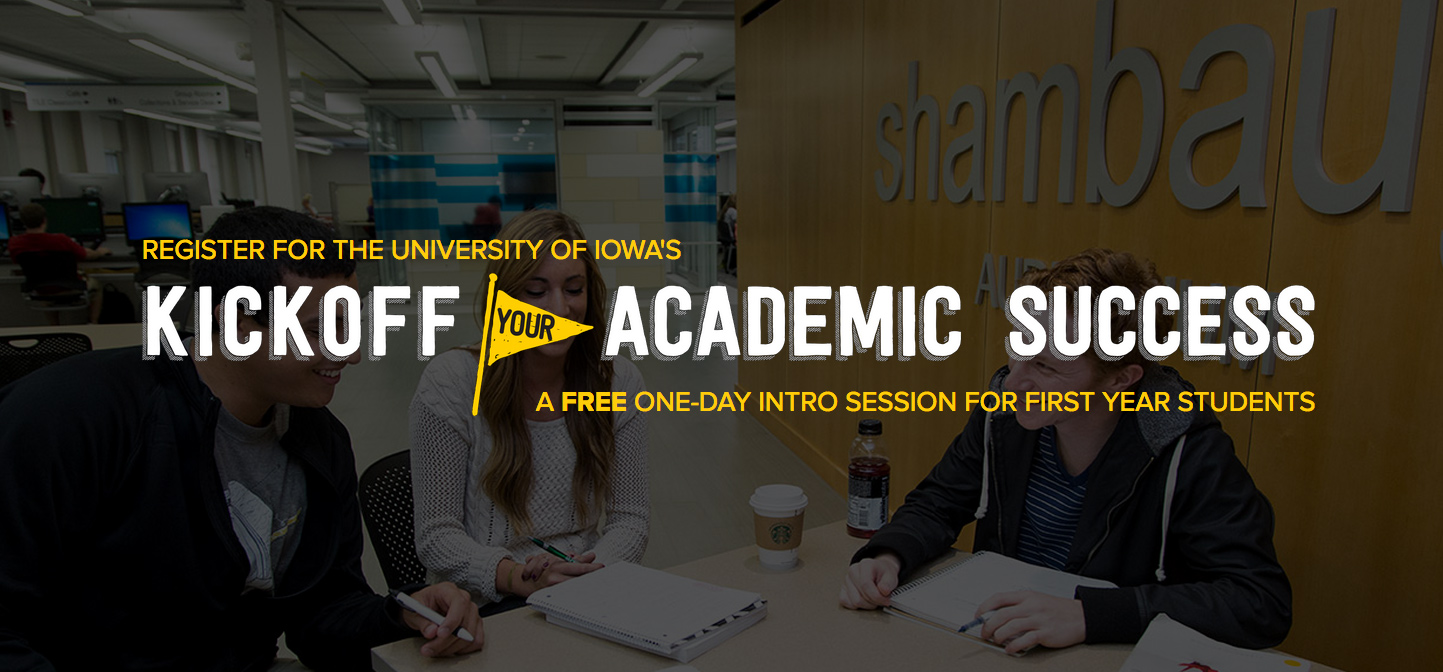
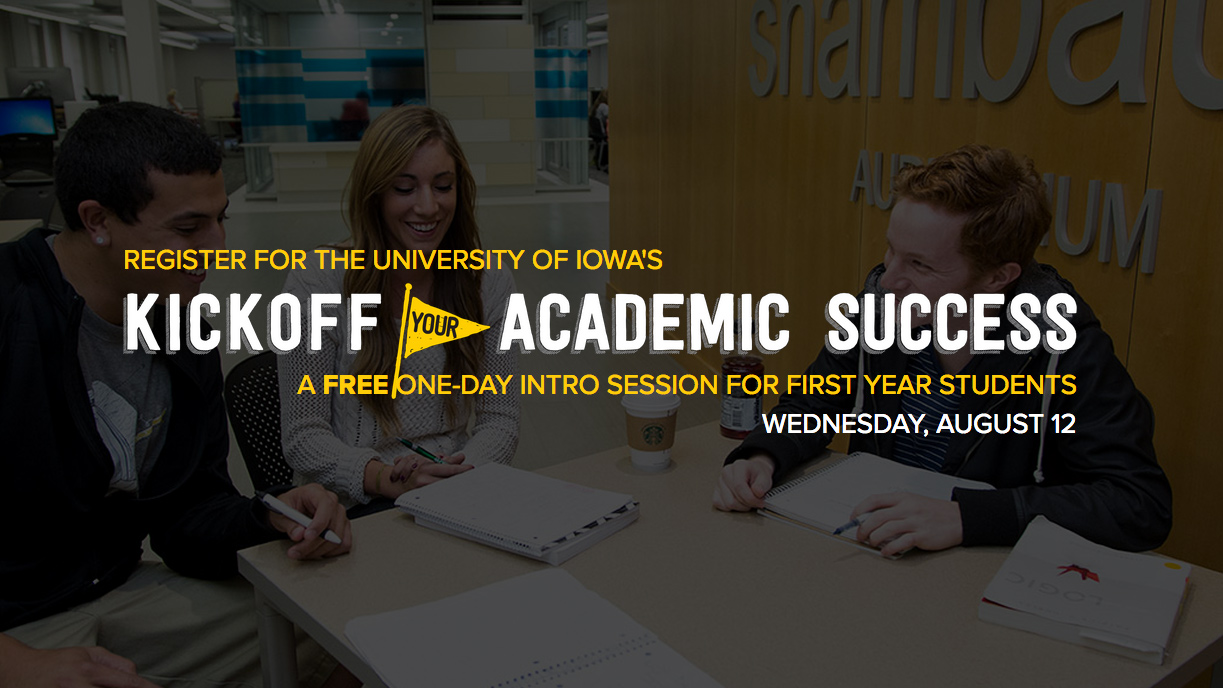
updated kickoff

diff --git a/kickoff/stylesheets/app.css b/kickoff/stylesheets/app.css
@@ -11302,7 +11302,7 @@ h1, h2 {
 /* line 47, ../scss/app.scss */
 .header {
   background: #000;
-  background: rgba(0, 0, 0, 0.85);
+  background: rgba(0, 0, 0, 0.7);
   padding: 10px 0;
   color: #FECC31;
   text-transform: uppercase;
@@ -11336,12 +11336,16 @@ h1, h2 {
     text-align: right;
   }
 }
-/* line 76, ../scss/app.scss */
+/* line 75, ../scss/app.scss */
+.header .subheader span {
+  color: white;
+}
+/* line 79, ../scss/app.scss */
 .header img {
   text-align: center;
 }
 
-/* line 81, ../scss/app.scss */
+/* line 84, ../scss/app.scss */
 .bg-container {
   background-image: url("../images/hero-image.jpg");
   background-position: 50% 50%;
@@ -11349,75 +11353,75 @@ h1, h2 {
   background-repeat: no-repeat;
 }
 @media only screen and (min-width: 40.0625em) {
-  /* line 81, ../scss/app.scss */
+  /* line 84, ../scss/app.scss */
   .bg-container {
     height: 700px;
     border-bottom: 7px dashed white;
   }
 }
 @media only screen and (min-width: 64.0625em) {
-  /* line 81, ../scss/app.scss */
+  /* line 84, ../scss/app.scss */
   .bg-container {
     height: 1000px;
     background-size: cover;
   }
 }
 
-/* line 98, ../scss/app.scss */
+/* line 101, ../scss/app.scss */
 .hero-content {
   color: white;
 }
-/* line 101, ../scss/app.scss */
+/* line 104, ../scss/app.scss */
 .hero-content ul li {
   font-size: 48px;
 }
 
-/* line 106, ../scss/app.scss */
+/* line 109, ../scss/app.scss */
 .button {
   text-transform: uppercase;
 }
 
-/* line 110, ../scss/app.scss */
+/* line 113, ../scss/app.scss */
 .details-container {
   background: #fff;
   padding-bottom: 1.875rem;
 }
-/* line 115, ../scss/app.scss */
+/* line 118, ../scss/app.scss */
 .details-container .details p, .details-container .details ul {
   text-align: left;
   font-size: 1.125rem;
 }
 @media only screen and (min-width: 64.0625em) {
-  /* line 115, ../scss/app.scss */
+  /* line 118, ../scss/app.scss */
   .details-container .details p, .details-container .details ul {
     font-size: 1.625rem;
   }
 }
-/* line 122, ../scss/app.scss */
+/* line 125, ../scss/app.scss */
 .details-container .details ul {
   list-style-type: square;
 }
 @media only screen and (min-width: 64.0625em) {
-  /* line 125, ../scss/app.scss */
+  /* line 128, ../scss/app.scss */
   .details-container .details ul li {
     padding: 20px 0;
   }
 }
 @media only screen and (min-width: 64.0625em) {
-  /* line 122, ../scss/app.scss */
+  /* line 125, ../scss/app.scss */
   .details-container .details ul {
     line-height: 1;
   }
 }
 @media only screen and (min-width: 64.0625em) {
-  /* line 110, ../scss/app.scss */
+  /* line 113, ../scss/app.scss */
   .details-container {
     padding-top: 0.9375rem;
     text-align: left;
   }
 }
 
-/* line 141, ../scss/app.scss */
+/* line 144, ../scss/app.scss */
 .extended-details-bg {
   background: #F9F9F9;
   border-top: 7px dashed #adadad;
@@ -11425,7 +11429,7 @@ h1, h2 {
   padding-top: 1.875rem;
 }
 
-/* line 149, ../scss/app.scss */
+/* line 152, ../scss/app.scss */
 .location-container ul {
   font-size: 16px;
   list-style-type: square;

diff --git a/kickoff/index.html b/kickoff/index.html
@@ -4,13 +4,16 @@
     <meta charset="utf-8" />
     <meta name="viewport" content="width=device-width, initial-scale=1.0" />
 
-    <meta property="og:title" content="Kickoff Your Academic Success! A Free One-Day Intro Session for First Year Students" />
+    <meta property="og:title" content="Kickoff Your Academic Success! A Free One-Day Intro Session for First Year Students | The University of Iowa" />
+    <meta property="og:description"
+    content="Wednesday, August 12. Feel more at ease tackling the first week of classes, discover campus resources that complement academic courses, and learn important study skills and strategies." />
     <meta property="og:type" content="website" />
     <meta property="og:url" content="http://tutor.uiowa.edu/kickoff/" />
     <meta property="og:image" content="http://tutor.uiowa.edu/kickoff/images/og-image.jpg" />
-    <meta property="og:image:width" content="1433" />
-    <meta property="og:image:height" content="672" />
-    <title>Kickoff Your Academic Success! A Free One-Day Intro Session for First Year Students | The University of Iowa</title>
+    <meta property="og:image:width" content="1223" />
+    <meta property="og:image:height" content="688" />
+    <title>Kickoff Your Academic Success! A Free One-Day Intro Session for First Year Students on August 12 | The University of Iowa</title>
+
     <link rel="stylesheet" href="stylesheets/app.css" />
     <!--[if lt IE 9]>
         <link rel="stylesheet" href="stylesheets/ie8.css">
@@ -35,7 +38,7 @@
           <div class="large-12 columns">
             <p>Register for The University of Iowa's <br />
               <img src="images/logo.png" class="logo" alt="Kickoff Your Academic Success" />
-              <p class="subheader">A <strong>free</strong> one-day intro session for first year students</p>
+              <p class="subheader">A <strong>free</strong> one-day intro session for first year students<br /><span>Wednesday, August 12 </span></p>
             </div>
           </div>
         </header>

diff --git a/kickoff/scss/app.scss b/kickoff/scss/app.scss
@@ -46,7 +46,7 @@ h1, h2 {
 
 .header {
     background: #000;
-    background: rgba(#000, 0.85);
+    background: rgba(#000, 0.7);
     padding: 10px 0;
     color: $gold;
     text-transform: uppercase;
@@ -71,6 +71,9 @@ h1, h2 {
         @media #{$xlarge-up} {
             margin-top: -35px;
             text-align: right;
+        }
+        span{
+            color: white
         }
     }
     img {
